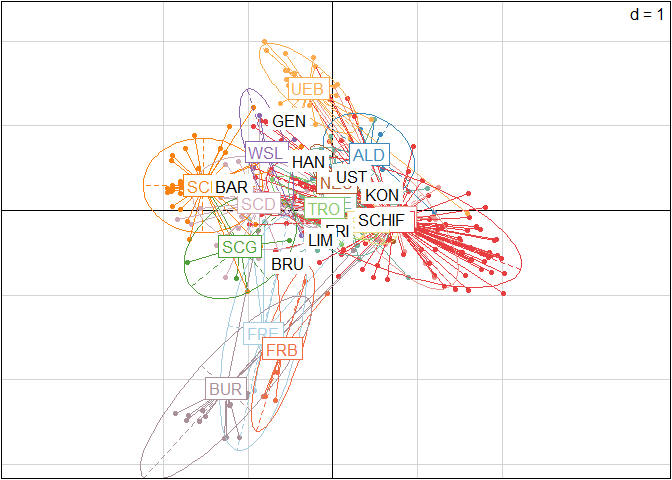
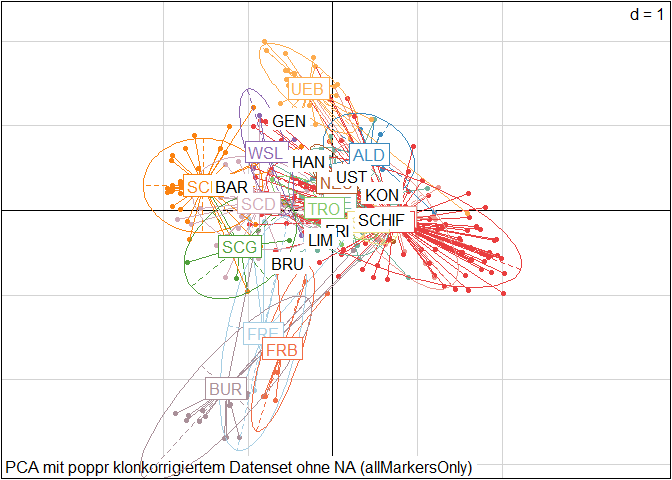
Hexp over the years graph

Changed region(s): [[0.0, 0.9375, 0.7188, 1.0]]

diff --git a/Presentation_Summer_24.md b/Presentation_Summer_24.md
@@ -185,10 +185,13 @@ kable(locus_table_SY_hexp)
 ``` r
 locus_table_SY_hexp_pivot <- pivot_longer(locus_table_SY_hexp,cols=3:16,names_to="locus",values_to="value")
 
-ggplot(locus_table_SY_hexp_pivot,aes(x=SamplingYear, y=value)) +
-  geom_point() +
+ggplot(locus_table_SY_hexp_pivot,aes(x=as.numeric(SamplingYear), y=value)) +
+  geom_point(pch=20) +
+  geom_smooth(method="gam", formula=y~s(x,k=2), colour="darkgreen") +
   facet_wrap(vars(Pop)) +
-  theme_classic()
+  theme(aspect.ratio=0.35) +
+  labs(y="Nei's genetic diversity Hexp", x="Sampling year") +
+  ggtitle("Nei's genetic diversity per locus, Sampling year and Population")
 ```
 
 ![](Presentation_Summer_24_files/figure-gfm/Hexp%20table%20Pop%20SamplingYear-1.png)<!-- -->
@@ -664,29 +667,47 @@ write_xlsx(rarHexpTY, "C:\\Users\\liaba\\OneDrive - Eidg. Forschungsanstalt WSL\
 ``` r
 #uncorrected PCA with allMarkersOnly dataset
 setPop(myData_genind_allMarkersOnly) <- ~Pop
-x.pops_allMarkersOnly <- tab(myData_genind_allMarkersOnly, freq=TRUE, NA.method="mean")
-pca.pops.allMarkersOnly <- dudi.pca(df = x.pops_allMarkersOnly, center = TRUE, scale = FALSE, scannf = FALSE, nf = 2)
-s.class(pca.pops.allMarkersOnly$li, fac=pop(myData_genind_allMarkersOnly), col=funky(15))
+x.pops_allMarkersOnly <- tab(myData_genind_allMarkersOnly,
+                             freq=TRUE, NA.method="mean")
+#x.pops_allMarkersOnly[grep("FRE", rownames(x.pops_allMarkersOnly)), ]
+
+pca.pops.allMarkersOnly <- dudi.pca(df = x.pops_allMarkersOnly,
+                                    center = TRUE, scale = FALSE, scannf = FALSE, nf = 2)
+
+s.class(pca.pops.allMarkersOnly$li, fac=pop(myData_genind_allMarkersOnly),
+        col=funky(15),
+        sub="PCA mit Datenset ohne NA (allMarkersOnly)")
 ```
 
 ![](Presentation_Summer_24_files/figure-gfm/pca-1.png)<!-- -->
 
 ``` r
 #clonecorrected PCA  with samplingYear
-cc_myData_genind_allMarkersOnly_SY <- clonecorrect(myData_genind_allMarkersOnly,strata=~Pop/SamplingYear)
-x.pops_cc.SY <- tab(cc_myData_genind_allMarkersOnly_SY, freq=TRUE, NA.method="mean")
-pca.pops_cc.SY <- dudi.pca(df = x.pops_cc.SY, center = TRUE, scale = FALSE, scannf = FALSE, nf = 2)
-s.class(pca.pops_cc.SY$li, fac=pop(cc_myData_genind_allMarkersOnly_SY), col=funky(15))
+cc_myData_genind_allMarkersOnly_SY <- clonecorrect(myData_genind_allMarkersOnly,
+                                                   strata=~Pop/SamplingYear)
+x.pops_cc.SY <- tab(cc_myData_genind_allMarkersOnly_SY,
+                    freq=TRUE, NA.method="mean")
+pca.pops_cc.SY <- dudi.pca(df = x.pops_cc.SY,
+                           center = TRUE, scale = FALSE, scannf = FALSE, nf = 2)
+s.class(pca.pops_cc.SY$li,
+        fac=pop(cc_myData_genind_allMarkersOnly_SY),
+        col=funky(15),
+        sub="PCA mit poppr klonkorrigiertem Datenset ohne NA (allMarkersOnly)")
 ```
 
 ![](Presentation_Summer_24_files/figure-gfm/pca-2.png)<!-- -->
 
 ``` r
 #clonecorrected PCA  with TruffleYear
-cc_myData_genind_allMarkersOnly_TY <- clonecorrect(myData_genind_allMarkersOnly,strata=~Pop/TruffleYear)
-x.pops_cc.TY <- tab(cc_myData_genind_allMarkersOnly_TY, freq=TRUE, NA.method="mean")
-pca.pops_cc.TY <- dudi.pca(df = x.pops_cc.TY, center = TRUE, scale = FALSE, scannf = FALSE, nf = 2)
-s.class(pca.pops_cc.TY$li, fac=pop(cc_myData_genind_allMarkersOnly_TY), col=funky(15))
+cc_myData_genind_allMarkersOnly_TY <- clonecorrect(myData_genind_allMarkersOnly,
+                                                   strata=~Pop/TruffleYear)
+x.pops_cc.TY <- tab(cc_myData_genind_allMarkersOnly_TY,
+                    freq=TRUE, NA.method="mean")
+pca.pops_cc.TY <- dudi.pca(df = x.pops_cc.TY,
+                           center = TRUE, scale = FALSE, scannf = FALSE, nf = 2)
+s.class(pca.pops_cc.TY$li,
+        fac=pop(cc_myData_genind_allMarkersOnly_TY),
+        col=funky(15))
 ```
 
 ![](Presentation_Summer_24_files/figure-gfm/pca-3.png)<!-- -->
